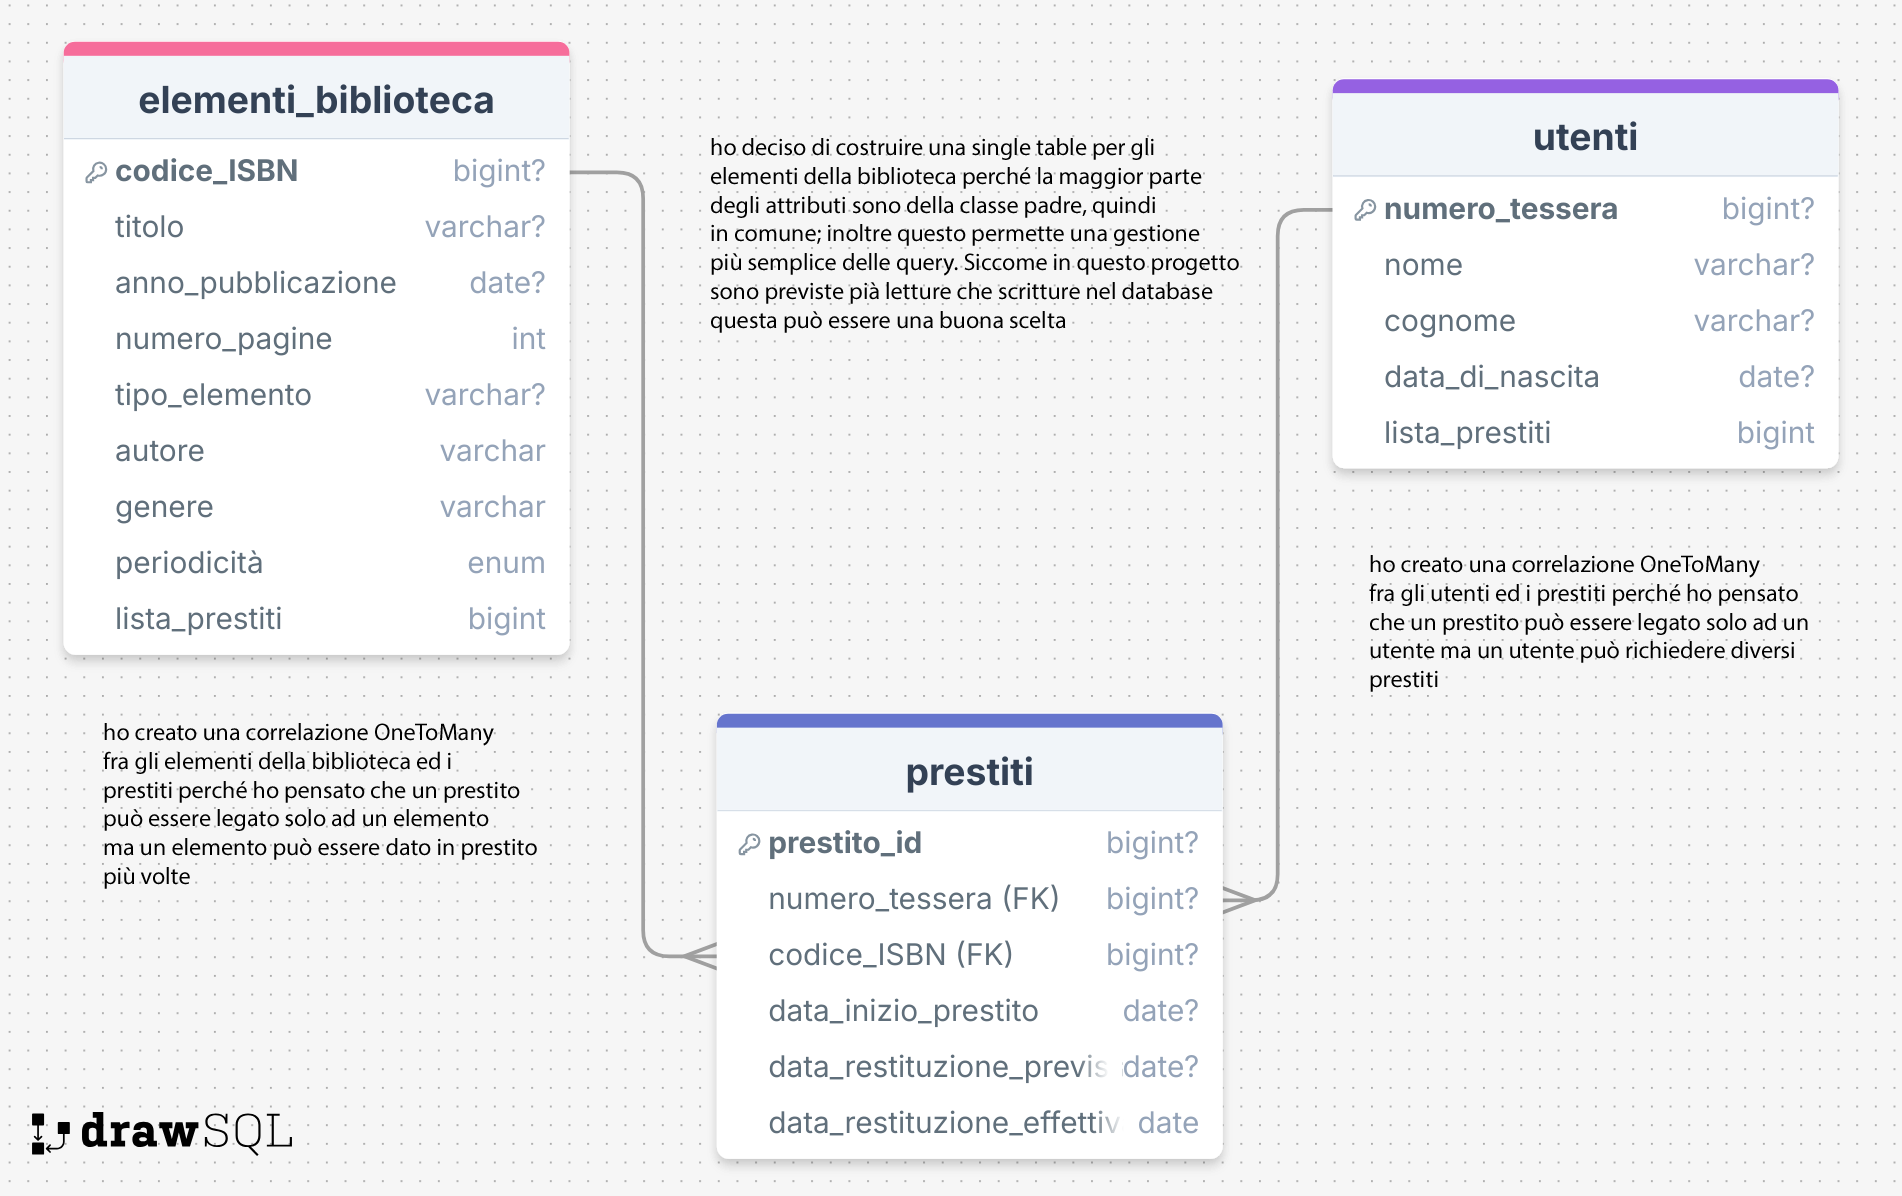
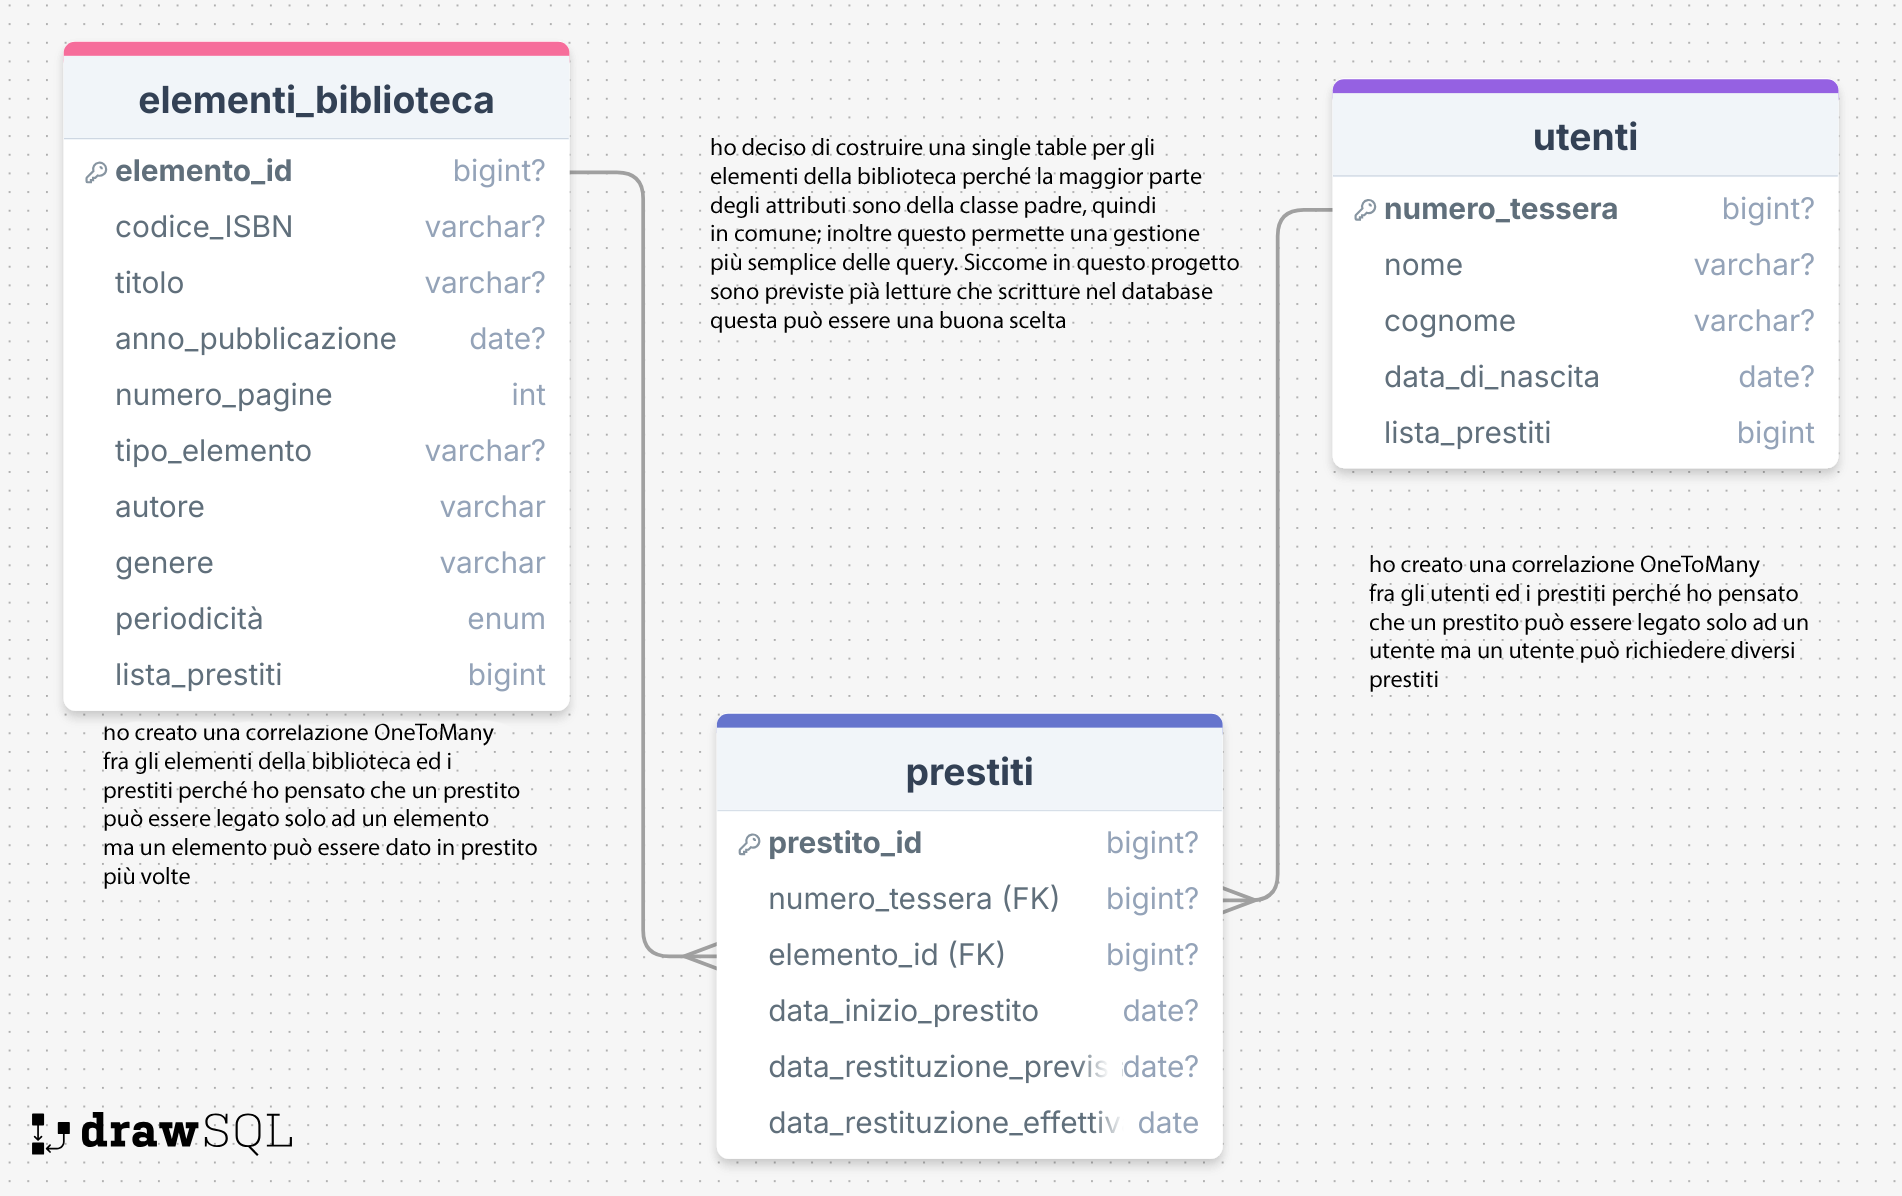
Adjusts tables and classes properties, and adds new methods

diff --git a/src/main/java/andrea_freddi/Application.java b/src/main/java/andrea_freddi/Application.java
@@ -1,5 +1,14 @@
 package andrea_freddi;
 
+import andrea_freddi.dao.ElementiDAO;
+import andrea_freddi.dao.PrestitiDAO;
+import andrea_freddi.dao.UtentiDAO;
+import andrea_freddi.entities.Libro;
+import andrea_freddi.entities.Periodicità;
+import andrea_freddi.entities.Rivista;
+import andrea_freddi.entities.Utente;
+import com.github.javafaker.Faker;
+
 import javax.persistence.EntityManager;
 import javax.persistence.EntityManagerFactory;
 import javax.persistence.Persistence;
@@ -9,8 +18,39 @@ public class Application {
 
     public static void main(String[] args) {
         EntityManager em = emf.createEntityManager();
+        Faker faker = new Faker();
+        ElementiDAO elementiDAO = new ElementiDAO(em);
+        UtentiDAO utentiDAO = new UtentiDAO(em);
+        PrestitiDAO prestitiDAO = new PrestitiDAO(em);
 
-        
+        // creo elementi del catalogo e li salvo nel database
+        for (int i = 0; i < 10; i++) {
+            Libro libro = new Libro(faker.number().numberBetween(1950, 2025), faker.code().isbn10(), faker.number().numberBetween(100, 400), faker.book().title(), faker.book().author(), faker.book().genre());
+            elementiDAO.save(libro);
+        }
+
+        Rivista rivista1 = new Rivista(faker.number().numberBetween(2015, 2025), faker.code().isbn10(), faker.number().numberBetween(20, 50), faker.book().genre() + " Magazine", Periodicità.MENSILE);
+        elementiDAO.save(rivista1);
+        Rivista rivista2 = new Rivista(faker.number().numberBetween(2015, 2025), faker.code().isbn10(), faker.number().numberBetween(20, 50), faker.book().genre() + " Magazine", Periodicità.SETTIMANALE);
+        elementiDAO.save(rivista2);
+        Rivista rivista3 = new Rivista(faker.number().numberBetween(2015, 2025), faker.code().isbn10(), faker.number().numberBetween(20, 50), faker.book().genre() + " Magazine", Periodicità.SEMESTRALE);
+        elementiDAO.save(rivista3);
+        Rivista rivista4 = new Rivista(faker.number().numberBetween(2015, 2025), faker.code().isbn10(), faker.number().numberBetween(20, 50), faker.book().genre() + " Magazine", Periodicità.MENSILE);
+        elementiDAO.save(rivista4);
+        Rivista rivista5 = new Rivista(faker.number().numberBetween(2015, 2025), faker.code().isbn10(), faker.number().numberBetween(20, 50), faker.book().genre() + " Magazine", Periodicità.SETTIMANALE);
+        elementiDAO.save(rivista5);
+        Rivista rivista6 = new Rivista(faker.number().numberBetween(2015, 2025), faker.code().isbn10(), faker.number().numberBetween(20, 50), faker.book().genre() + " Magazine", Periodicità.SEMESTRALE);
+        elementiDAO.save(rivista6);
+
+        // creo utenti e li salvo nel database
+        for (int i = 0; i < 10; i++) {
+            Utente utente = new Utente(faker.name().lastName(), faker.date().birthday(), faker.name().firstName());
+            utentiDAO.save(utente);
+        }
+
+        // creo prestiti e li salvo nel database
+
+
         em.close();
         emf.close();
     }

diff --git a/src/main/java/andrea_freddi/entities/Elemento.java b/src/main/java/andrea_freddi/entities/Elemento.java
@@ -1,7 +1,7 @@
 package andrea_freddi.entities;
 
 import javax.persistence.*;
-import java.time.LocalDate;
+import java.util.List;
 
 // creo la classe astratta Elemento padre di Libro e Rivista
 
@@ -12,37 +12,50 @@ import java.time.LocalDate;
 @Inheritance(strategy = InheritanceType.SINGLE_TABLE)
 // definisco la colonna discriminatoria
 @DiscriminatorColumn(name = "tipo_elemento")
+
+@NamedQuery(name = "findByISBN", query = "SELECT e FROM Elemento e WHERE e.codice_ISBN = :codice_ISBN")
 public abstract class Elemento {
     @Id
     @GeneratedValue(strategy = GenerationType.IDENTITY)
-    @Column(name = "codice_ISBN", nullable = false)
+    @Column(name = "elemento_id", nullable = false)
     protected long id;
+    @Column(name = "codice_ISBN", nullable = false)
+    protected String codice_ISBN;
     @Column(name = "titolo", nullable = false)
     protected String titolo;
     @Column(name = "anno_pubblicazione", nullable = false)
-    protected LocalDate annoPubblicazione;
+    protected int annoPubblicazione;
     @Column(name = "numero_pagine")
     protected int numeroPagine;
 
     // creo la relazione uno a molti con la tabella prestiti (bidirezionale)
     @OneToMany(mappedBy = "elemento")
-    protected Prestito prestito;
+    protected List<Prestito> listaPrestiti;
 
     public Elemento() {
     }
 
-    public Elemento(String titolo, LocalDate annoPubblicazione, int numeroPagine) {
-        this.titolo = titolo;
+    public Elemento(int annoPubblicazione, String codice_ISBN, int numeroPagine, String titolo) {
         this.annoPubblicazione = annoPubblicazione;
+        this.codice_ISBN = codice_ISBN;
         this.numeroPagine = numeroPagine;
+        this.titolo = titolo;
     }
 
-    public LocalDate getAnnoPubblicazione() {
+    public int getAnnoPubblicazione() {
         return annoPubblicazione;
     }
 
-    public void setAnnoPubblicazione(LocalDate annoPubblicazione) {
+    public void setAnnoPubblicazione(int annoPubblicazione) {
         this.annoPubblicazione = annoPubblicazione;
+    }
+
+    public String getCodice_ISBN() {
+        return codice_ISBN;
+    }
+
+    public void setCodice_ISBN(String codice_ISBN) {
+        this.codice_ISBN = codice_ISBN;
     }
 
     public long getId() {
@@ -69,9 +82,10 @@ public abstract class Elemento {
     public String toString() {
         return "Elemento{" +
                 "annoPubblicazione=" + annoPubblicazione +
+                ", codice_ISBN='" + codice_ISBN + '\'' +
                 ", id=" + id +
-                ", titolo='" + titolo + '\'' +
                 ", numeroPagine=" + numeroPagine +
+                ", titolo='" + titolo + '\'' +
                 '}';
     }
 }

diff --git a/src/main/java/andrea_freddi/dao/ElementiDAO.java b/src/main/java/andrea_freddi/dao/ElementiDAO.java
@@ -24,4 +24,46 @@ public class ElementiDAO {
             System.out.println(ex.getMessage());
         }
     }
+
+    // creo il metodo findById che cerca un elemento nel database in base all'id
+    public Elemento findById(long id) {
+        return entityManager.find(Elemento.class, id);
+    }
+
+    // creo il metodo findByIdAndDelete che cerca un elemento nel database in base all'id e lo elimina
+    public void findByIdAndDelete(long id) {
+        try {
+            EntityTransaction transaction = entityManager.getTransaction();
+            transaction.begin();
+            Elemento elementoTrovato = entityManager.find(Elemento.class, id);
+            if (elementoTrovato != null) {
+                entityManager.remove(elementoTrovato);
+                transaction.commit();
+                System.out.println("Elemento " + elementoTrovato.getTitolo() + " correttamente eliminato dal catalogo della biblioteca");
+            } else System.out.println("Elemento non trovato");
+        } catch (Exception e) {
+            System.out.println(e.getMessage());
+        }
+    }
+
+    // creo il metodo findByISBN che cerca un elemento nel database in base all'ISBN con la NamedQuery
+    public Elemento findByISBN(String isbn) {
+        return entityManager.createNamedQuery("findByISBN", Elemento.class).setParameter("isbn", isbn).getSingleResult();
+    }
+
+    // creo il metodo findByISBNAndDelete che cerca un elemento nel database in base al titolo con la NamedQuery e lo elimina
+    public void findByISBNAndDelete(String isbn) {
+        try {
+            EntityTransaction transaction = entityManager.getTransaction();
+            transaction.begin();
+            Elemento elementoTrovato = entityManager.createNamedQuery("findByISBN", Elemento.class).setParameter("isbn", isbn).getSingleResult();
+            if (elementoTrovato != null) {
+                entityManager.remove(elementoTrovato);
+                transaction.commit();
+                System.out.println("Elemento " + elementoTrovato.getTitolo() + " correttamente eliminato dal catalogo della biblioteca");
+            } else System.out.println("Elemento non trovato");
+        } catch (Exception e) {
+            System.out.println(e.getMessage());
+        }
+    }
 }

diff --git a/src/main/java/andrea_freddi/entities/Libro.java b/src/main/java/andrea_freddi/entities/Libro.java
@@ -2,7 +2,6 @@ package andrea_freddi.entities;
 
 import javax.persistence.Column;
 import javax.persistence.Entity;
-import java.time.LocalDate;
 
 // creo la classe Libro che estende Elemento
 
@@ -16,8 +15,8 @@ public class Libro extends Elemento {
     public Libro() {
     }
 
-    public Libro(String titolo, LocalDate annoPubblicazione, int numeroPagine, String autore, String genere) {
-        super(titolo, annoPubblicazione, numeroPagine);
+    public Libro(int annoPubblicazione, String codice_ISBN, int numeroPagine, String titolo, String autore, String genere) {
+        super(annoPubblicazione, codice_ISBN, numeroPagine, titolo);
         this.autore = autore;
         this.genere = genere;
     }
@@ -43,10 +42,11 @@ public class Libro extends Elemento {
         return "Libro{" +
                 "autore='" + autore + '\'' +
                 ", genere='" + genere + '\'' +
-                ", annoPubblicazione=" + annoPubblicazione +
-                ", id=" + id +
-                ", numeroPagine=" + numeroPagine +
                 ", titolo='" + titolo + '\'' +
+                ", numeroPagine=" + numeroPagine +
+                ", id=" + id +
+                ", codice_ISBN='" + codice_ISBN + '\'' +
+                ", annoPubblicazione=" + annoPubblicazione +
                 '}';
     }
 }

diff --git a/src/main/java/andrea_freddi/entities/Utente.java b/src/main/java/andrea_freddi/entities/Utente.java
@@ -1,7 +1,7 @@
 package andrea_freddi.entities;
 
 import javax.persistence.*;
-import java.time.LocalDate;
+import java.util.Date;
 import java.util.List;
 
 // creo la classe Utente
@@ -19,7 +19,7 @@ public class Utente {
     @Column(name = "cognome", nullable = false)
     private String cognome;
     @Column(name = "data_di_nascita", nullable = false)
-    private LocalDate dataDiNascita;
+    private Date dataDiNascita;
 
     // creo la relazione uno a molti con la tabella prestiti (bidirezionale)
     @OneToMany(mappedBy = "utente")
@@ -28,7 +28,7 @@ public class Utente {
     public Utente() {
     }
 
-    public Utente(String cognome, LocalDate dataDiNascita, Long id, String nome) {
+    public Utente(String cognome, Date dataDiNascita, String nome) {
         this.cognome = cognome;
         this.dataDiNascita = dataDiNascita;
         this.nome = nome;
@@ -42,11 +42,11 @@ public class Utente {
         this.cognome = cognome;
     }
 
-    public LocalDate getDataDiNascita() {
+    public Date getDataDiNascita() {
         return dataDiNascita;
     }
 
-    public void setDataDiNascita(LocalDate dataDiNascita) {
+    public void setDataDiNascita(Date dataDiNascita) {
         this.dataDiNascita = dataDiNascita;
     }
 

diff --git a/src/main/java/andrea_freddi/dao/PrestitiDAO.java b/src/main/java/andrea_freddi/dao/PrestitiDAO.java
@@ -1,0 +1,32 @@
+package andrea_freddi.dao;
+
+import andrea_freddi.entities.Prestito;
+
+import javax.persistence.EntityManager;
+import javax.persistence.EntityTransaction;
+
+public class PrestitiDAO {
+    private final EntityManager entityManager;
+
+    public PrestitiDAO(EntityManager entityManager) {
+        this.entityManager = entityManager;
+    }
+
+    // creo il metodo save che salva un prestito nel database
+    public void save(Prestito prestito) {
+        try {
+            EntityTransaction transaction = entityManager.getTransaction();
+            transaction.begin();
+            entityManager.persist(prestito);
+            transaction.commit();
+            System.out.println("Il prestito di " + prestito.getElemento().getTitolo() + " all'utente " + prestito.getUtente().getNome() + prestito.getUtente().getCognome() + " è stato salvato con successo!");
+        } catch (Exception ex) {
+            System.out.println(ex.getMessage());
+        }
+    }
+
+    // creo il metodo findById che cerca un prestito nel database in base all'id
+    public Prestito findById(long id) {
+        return entityManager.find(Prestito.class, id);
+    }
+}

diff --git a/src/main/java/andrea_freddi/entities/Rivista.java b/src/main/java/andrea_freddi/entities/Rivista.java
@@ -4,7 +4,6 @@ import javax.persistence.Column;
 import javax.persistence.Entity;
 import javax.persistence.EnumType;
 import javax.persistence.Enumerated;
-import java.time.LocalDate;
 
 // creo la classe Rivista che estende Elemento
 
@@ -17,8 +16,8 @@ public class Rivista extends Elemento {
     public Rivista() {
     }
 
-    public Rivista(String titolo, LocalDate annoPubblicazione, int numeroPagine, Periodicità periodicità) {
-        super(titolo, annoPubblicazione, numeroPagine);
+    public Rivista(int annoPubblicazione, String codice_ISBN, int numeroPagine, String titolo, Periodicità periodicità) {
+        super(annoPubblicazione, codice_ISBN, numeroPagine, titolo);
         this.periodicità = periodicità;
     }
 
@@ -35,6 +34,7 @@ public class Rivista extends Elemento {
         return "Rivista{" +
                 "periodicità=" + periodicità +
                 ", annoPubblicazione=" + annoPubblicazione +
+                ", codice_ISBN='" + codice_ISBN + '\'' +
                 ", id=" + id +
                 ", numeroPagine=" + numeroPagine +
                 ", titolo='" + titolo + '\'' +

diff --git a/src/main/java/andrea_freddi/dao/UtentiDAO.java b/src/main/java/andrea_freddi/dao/UtentiDAO.java
@@ -19,9 +19,14 @@ public class UtentiDAO {
             transaction.begin();
             entityManager.persist(utente);
             transaction.commit();
-            System.out.println("L'utente " + utente.getNome() + " " + utente.getCognome() + "è stato aggiunto con successo al catalogo della biblioteca!");
+            System.out.println("L'utente " + utente.getNome() + " " + utente.getCognome() + "è stato aggiunto con successo al registro della biblioteca!");
         } catch (Exception ex) {
             System.out.println(ex.getMessage());
         }
+    }
+
+    // creo il metodo findById che cerca un utente nel database in base all'id
+    public Utente findById(long id) {
+        return entityManager.find(Utente.class, id);
     }
 }

diff --git a/src/main/java/andrea_freddi/entities/Prestito.java b/src/main/java/andrea_freddi/entities/Prestito.java
@@ -33,11 +33,11 @@ public class Prestito {
     public Prestito() {
     }
 
-    public Prestito(LocalDate dataInizioPrestito, LocalDate dataRestituzionePrevista, Elemento elemento, Long id, Utente utente) {
+    public Prestito(LocalDate dataInizioPrestito, LocalDate dataRestituzioneEffettiva, LocalDate dataRestituzionePrevista, Elemento elemento, Utente utente) {
         this.dataInizioPrestito = dataInizioPrestito;
+        this.dataRestituzioneEffettiva = dataRestituzioneEffettiva;
         this.dataRestituzionePrevista = dataRestituzionePrevista;
         this.elemento = elemento;
-        this.id = id;
         this.utente = utente;
     }
 
